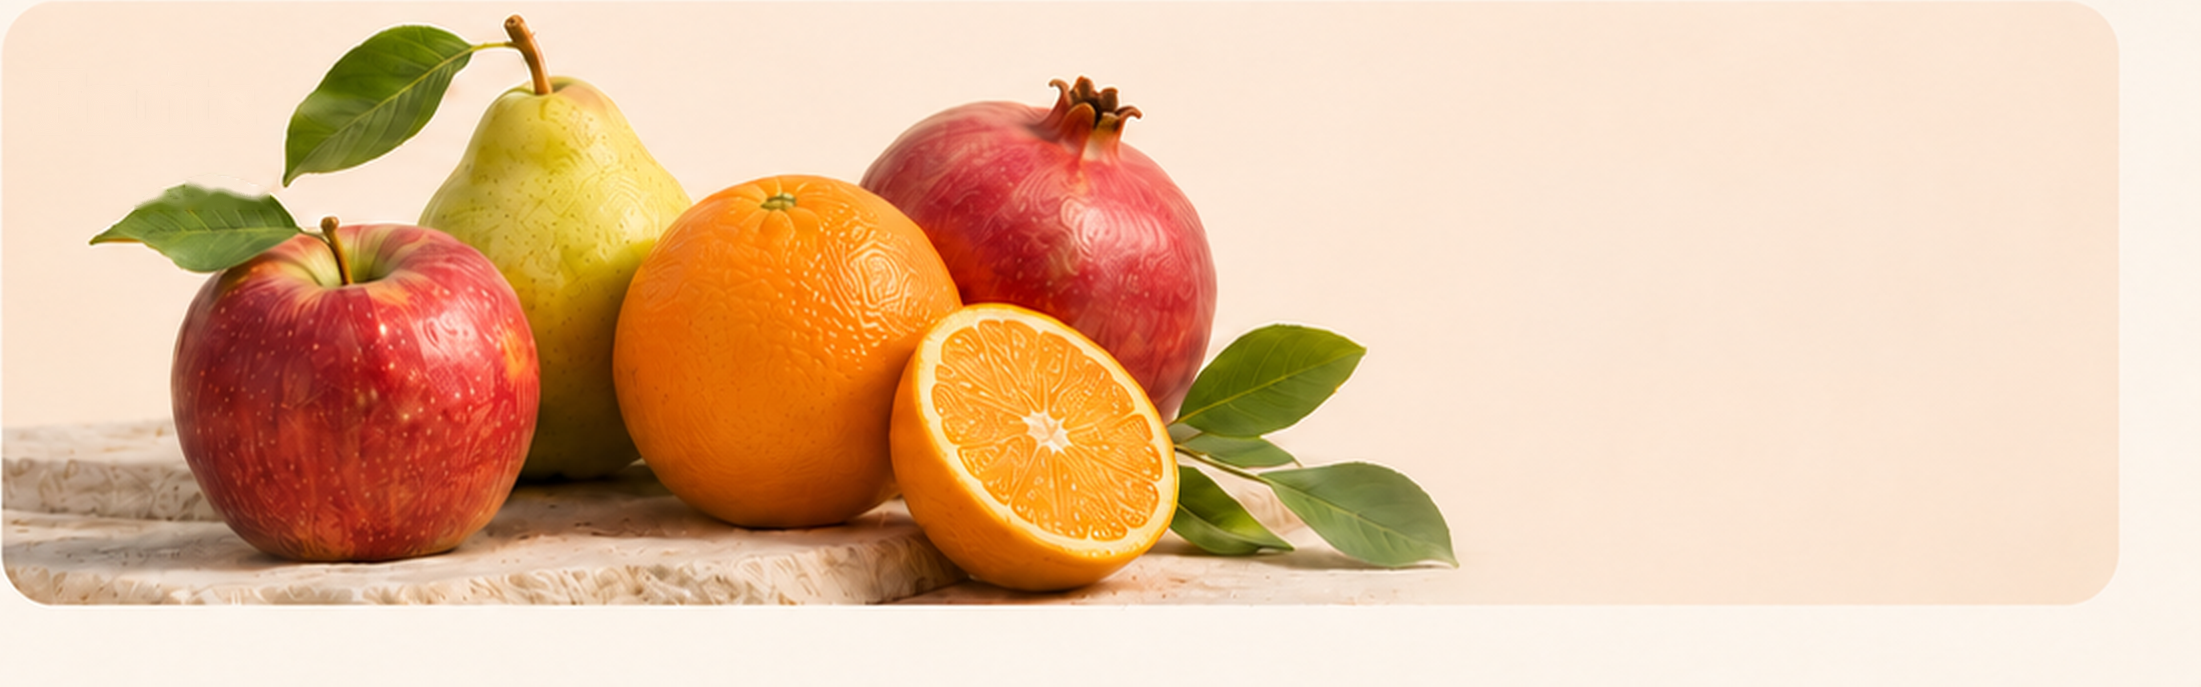
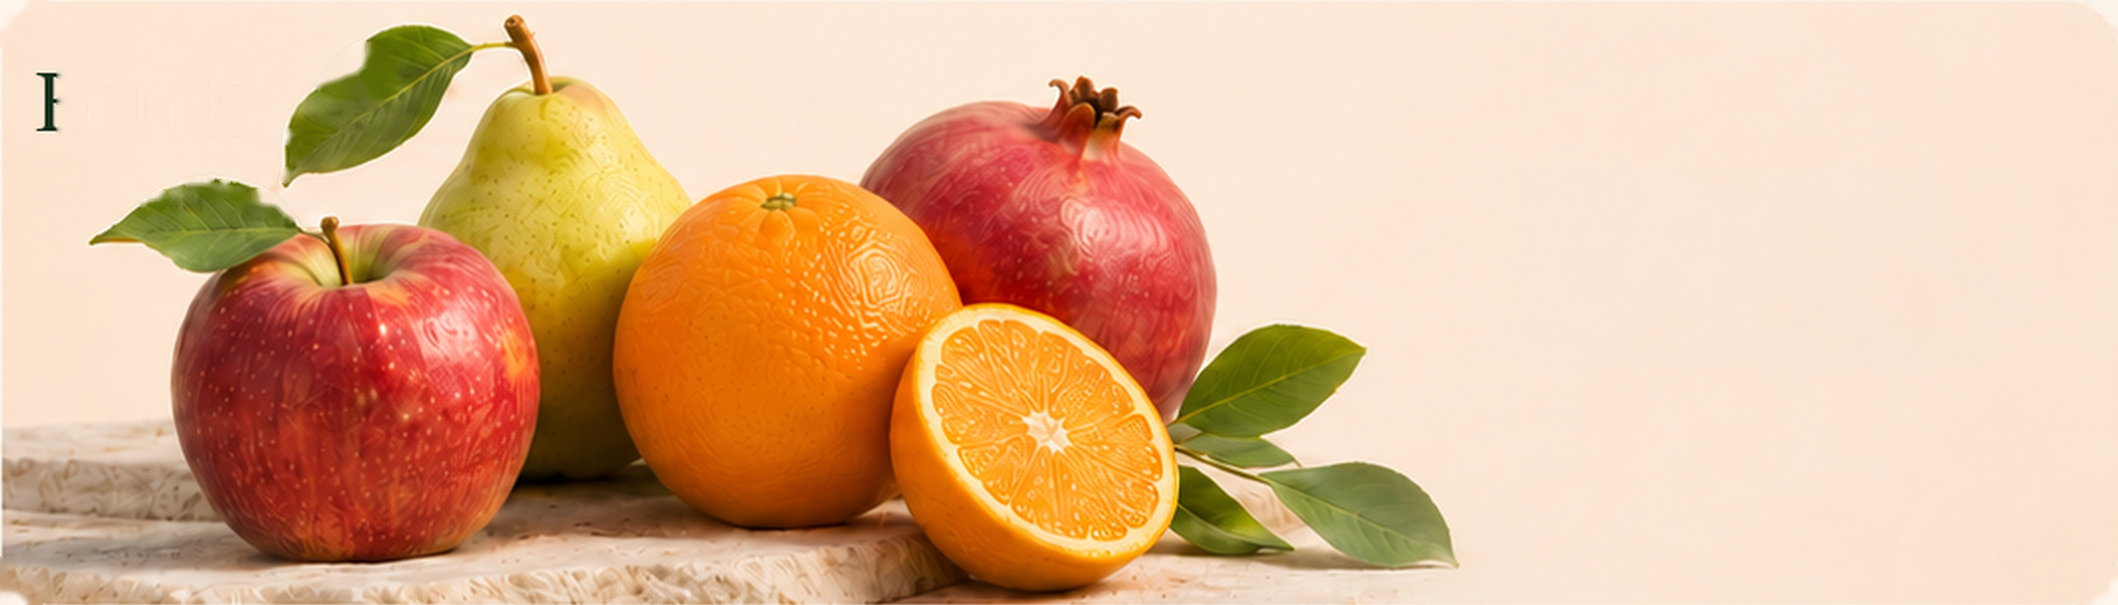
feat(everyday-goodness): eliminate white background layout and apply tight full-bleed photographic cards

diff --git a/src/components/HarvestCategoryGrid.tsx b/src/components/HarvestCategoryGrid.tsx
@@ -1172,8 +1172,8 @@ export default function HarvestCategoryGrid() {
                 </button>
               </div>
 
-              {/* Dynamic 3-Card Bento Grid: Decoupled Clean Photographic Plates with Live Crisp Typography */}
-              <div className="grid grid-cols-1 lg:grid-cols-[1308fr_2201fr] lg:grid-rows-2 gap-3 sm:gap-4 lg:gap-5 w-full aspect-auto lg:aspect-[3548/1414]">
+              {/* Dynamic 3-Card Bento Grid: Full-Bleed Plates without White Background Layout */}
+              <div className="grid grid-cols-1 lg:grid-cols-[1224fr_2118fr] lg:grid-rows-2 gap-3 sm:gap-4 lg:gap-5 w-full aspect-auto lg:aspect-[3342/1258]">
                 {everydayGoodness.collections.map((collection, index) => {
                   const isMilk = index === 0;
                   const isVeg = index === 1;
@@ -1186,10 +1186,10 @@ export default function HarvestCategoryGrid() {
                       href={collection.href}
                       className={`collection-card group relative rounded-2xl sm:rounded-3xl overflow-hidden shadow-xs hover:shadow-xl transition-all duration-300 cursor-pointer block border border-[#16301d]/[0.07] bg-[#faf5ea] ${
                         isMilk
-                          ? "lg:col-start-1 lg:row-start-1 lg:row-span-2 aspect-[1308/1414] lg:aspect-auto h-full"
+                          ? "lg:col-start-1 lg:row-start-1 lg:row-span-2 aspect-[1224/1258] lg:aspect-auto h-full"
                           : isVeg
-                          ? "lg:col-start-2 lg:row-start-1 aspect-[2201/694] lg:aspect-auto h-full"
-                          : "lg:col-start-2 lg:row-start-2 aspect-[2201/687] lg:aspect-auto h-full"
+                          ? "lg:col-start-2 lg:row-start-1 aspect-[2118/618] lg:aspect-auto h-full"
+                          : "lg:col-start-2 lg:row-start-2 aspect-[2118/605] lg:aspect-auto h-full"
                       }`}
                       aria-label={`Open ${collection.title} Collection`}
                     >
